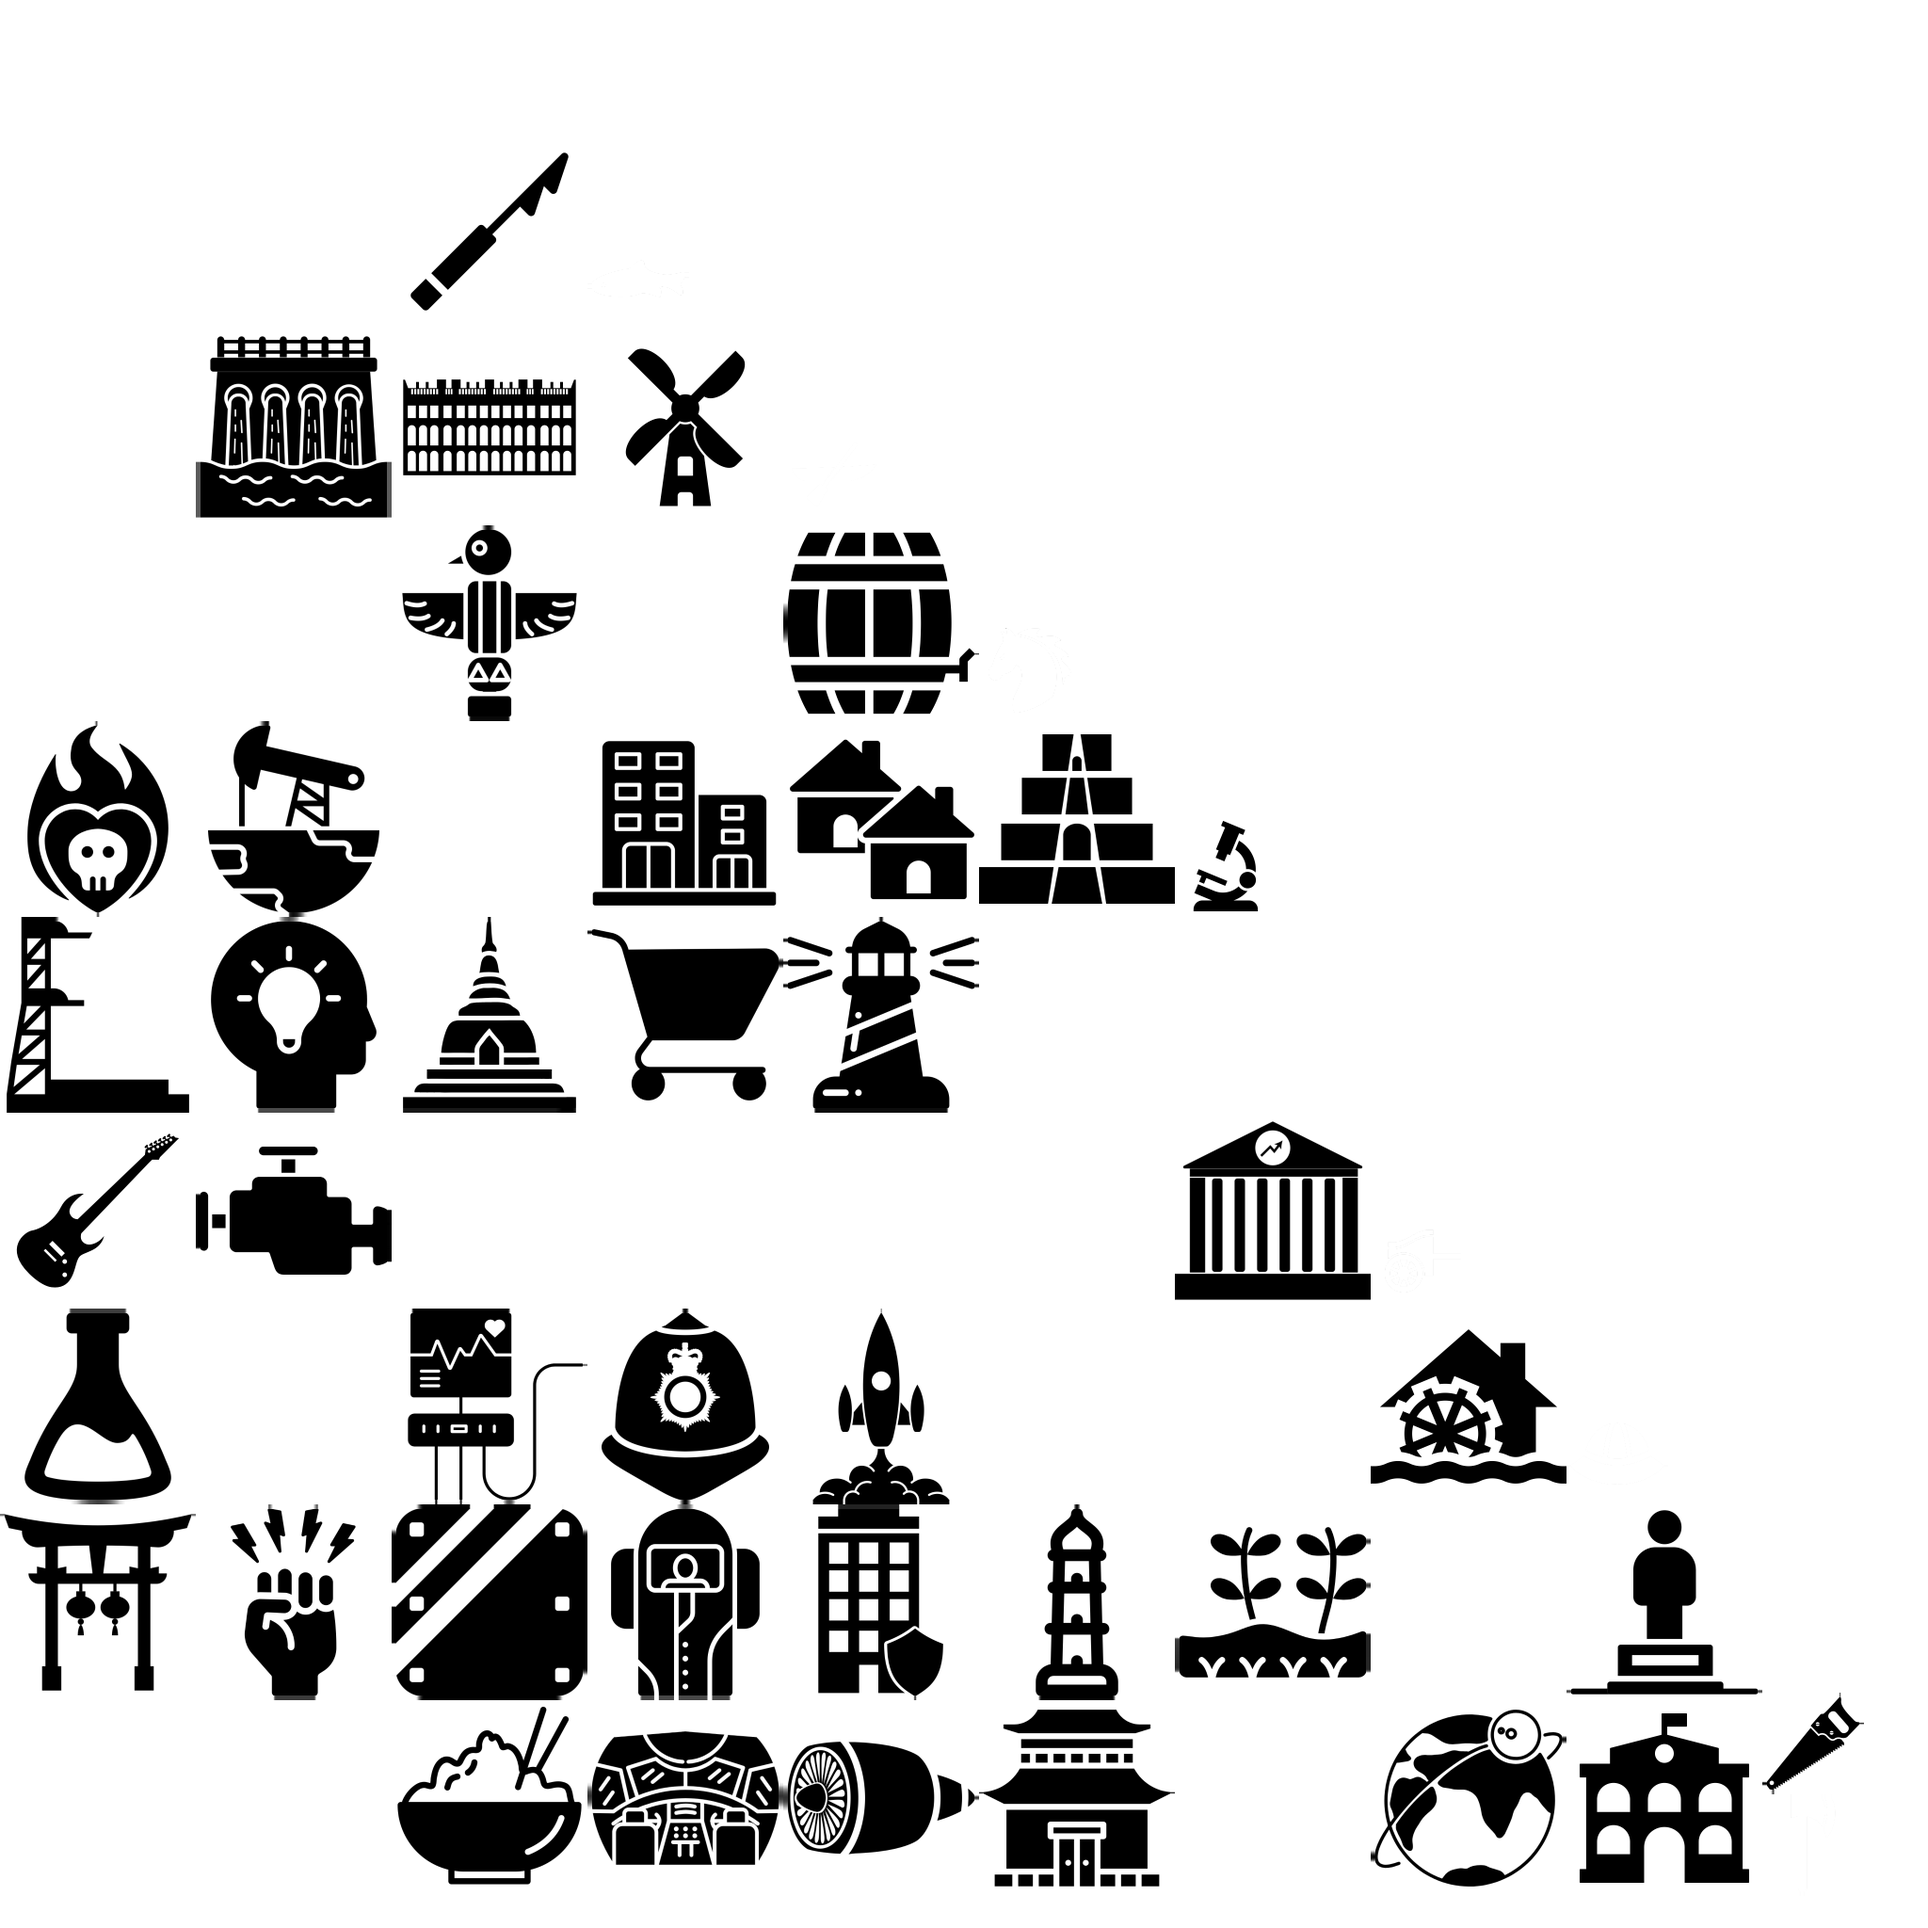
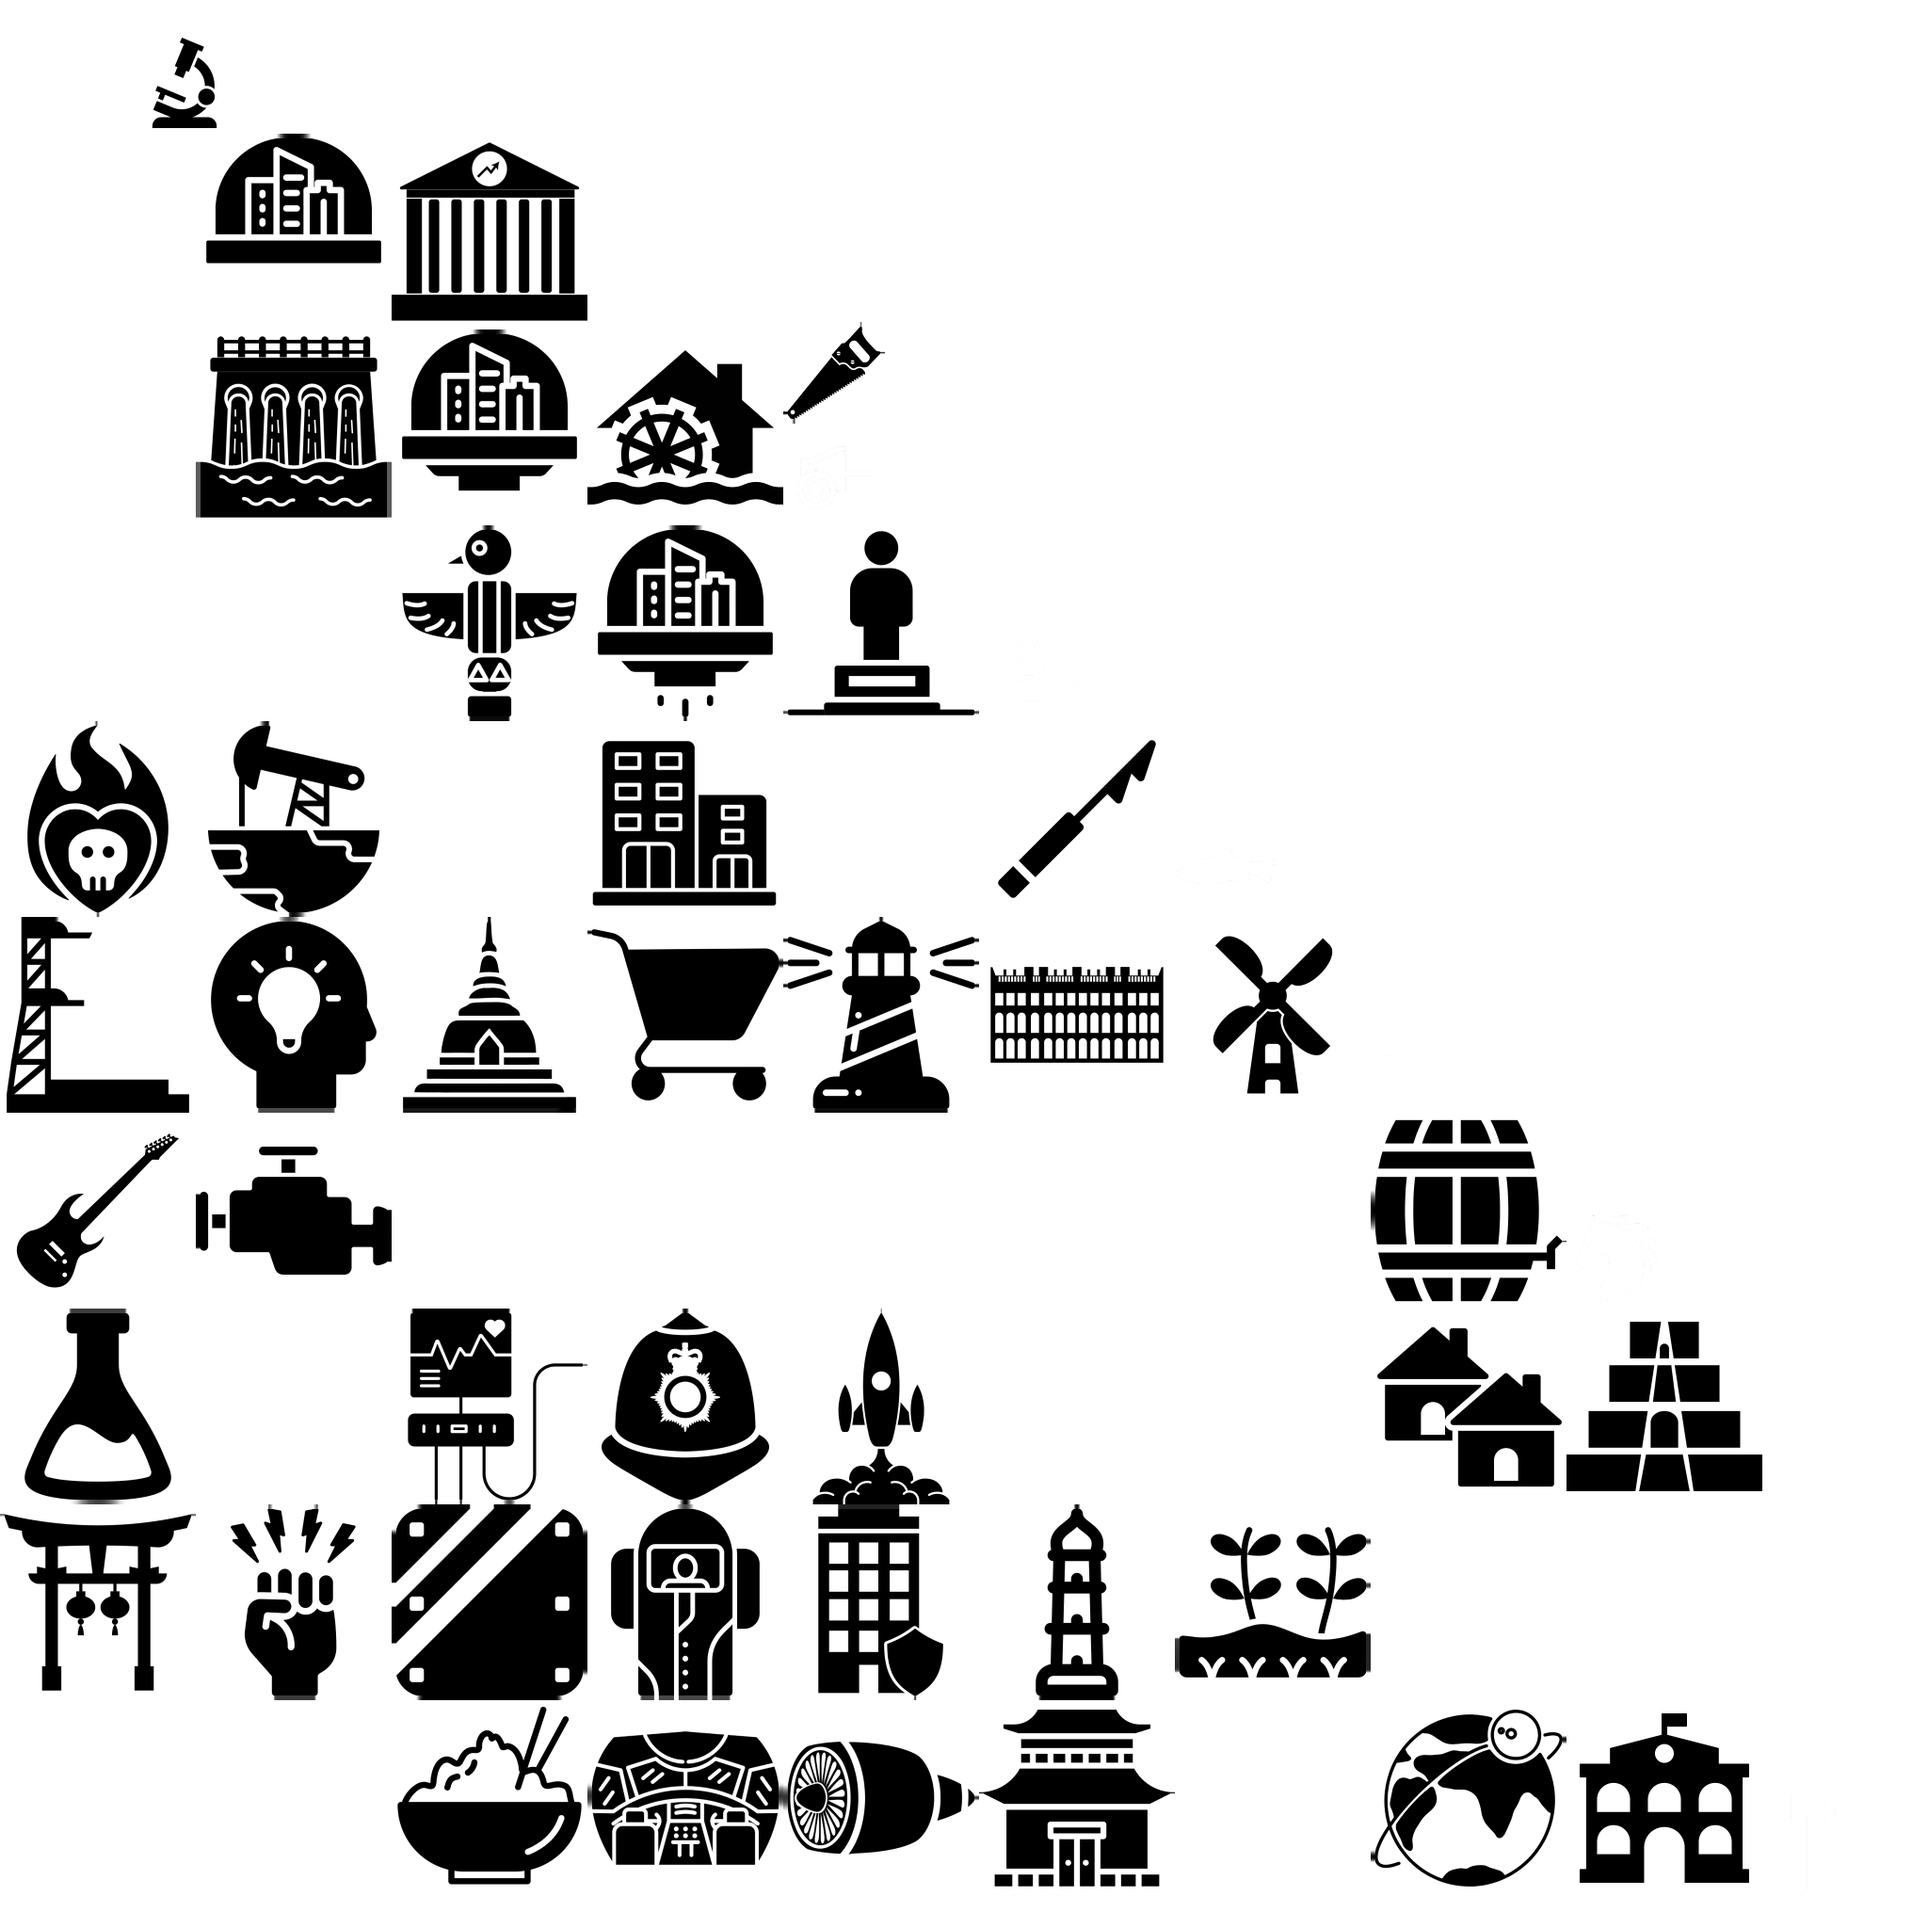
Add Cultural Victory

Changed region(s): [[0.0625, 0.0312, 0.9375, 0.9062], [0.9375, 0.875, 0.9688, 0.9062], [0.9062, 0.9062, 0.9375, 0.9375]]

diff --git a/README.md b/README.md
@@ -95,6 +95,7 @@ All images are from The Noun Project, Creative Commons, unless otherwise specifi
 - [Rice Field](https://thenounproject.com/icon/rice-field-7105256/) by Muh zakaria for Terrace
 - [Totem](https://thenounproject.com/icon/totem-6074140/) by Andhika Pramanto for Totem Pole
 - [Pyramid](https://thenounproject.com/icon/pyramid-11905/) by cesare cardano for Ziggurat
+- [Skyscraper](https://thenounproject.com/icon/skycraper-7157085/) by Ali Nur Rohman for Utopia Project
 
 #### Improvements
 
@@ -121,7 +122,6 @@ All images are from The Noun Project, Creative Commons, unless otherwise specifi
 - [Viking Symbol](https://thenounproject.com/icon/viking-symbol-248008/) by Alexander Skowalsky for Viking
 - [Shield](https://thenounproject.com/icon/shield-163736/) by Ivan Colic for Zulu
 - [Crescent](https://thenounproject.com/icon/crescent-2296077/) by Darrick Doeschot for Ottoman
-
 
 #### Policies
 
